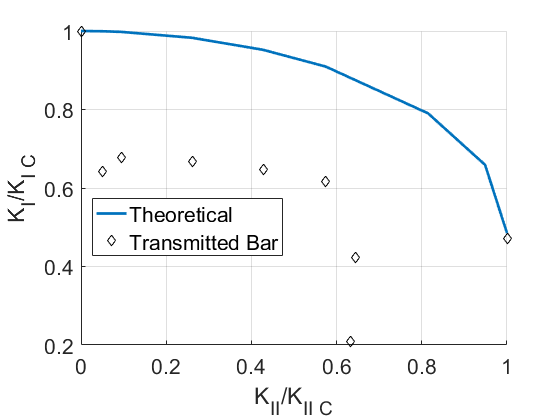
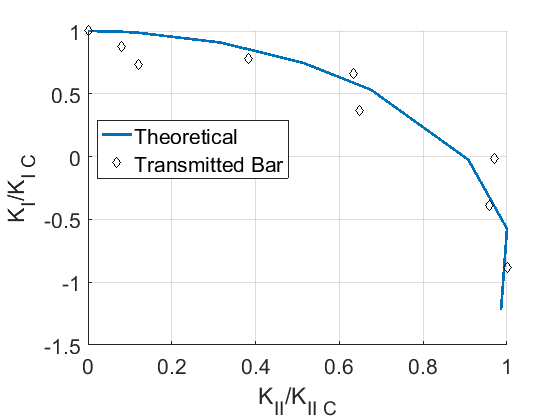
updated figures

diff --git a/Matlab/Goal2and3.m b/Matlab/Goal2and3.m
@@ -12,21 +12,19 @@ B=3/1000;
 
 alpha=0:5:90;
 
-K_I=sqrt(pi*a).*cosd(beta).^2;
-K_II=sqrt(pi*a).*cosd(beta).*sind(beta);
-
 
 for i= 1:length(beta)
     [K_I(i),K_II(i),N1(i),N2(i)]=SIF_Brazil(1,beta(i)); % Creates normalized values of K1 and K2 
 end
-load('strength.mat')
-strength=strength(1:9);
-P=strength.*pi*B*R;
+loads =1.0e+03 *[2.3603;2.0797;1.7526;2.0330;2.0797;1.6124;1.7993;1.6124;1.7059];
+% strength=strength(1:9);
+% P=strength.*pi*B*R;
 
 for i= 1:length(beta)
-    [K1(i),K2(i),N1(i),N2(i)]=SIF_Brazil(P(i),beta(i)); % Creates normalized values of K1 and K2 
+    [K1(i),K2(i),N1(i),N2(i)]=SIF_Brazil(loads(i),beta(i)); % Creates normalized values of K1 and K2 
 end
-
+K_I=sqrt(pi*a).*cosd(beta).^2;
+K_II=sqrt(pi*a).*cosd(beta).*sind(beta);
 
 T_Max=-2*atand(K_I./(4.*K_II)-1/4*sqrt((K_I./K_II).^2+8));
 T_Max(isnan(T_Max))=0;

diff --git a/Matlab/QuasiStatic.m b/Matlab/QuasiStatic.m
@@ -13,8 +13,8 @@ rate=mode(strainrate);
 
 maxload=max(load);
 
-figure; hold on
-plot(disp,load)
+% figure; hold on
+% plot(disp,load)
 %plot(time(2:end),rate*ones(length(time(2:end))))
 S_Ult=max(stress); 
 
